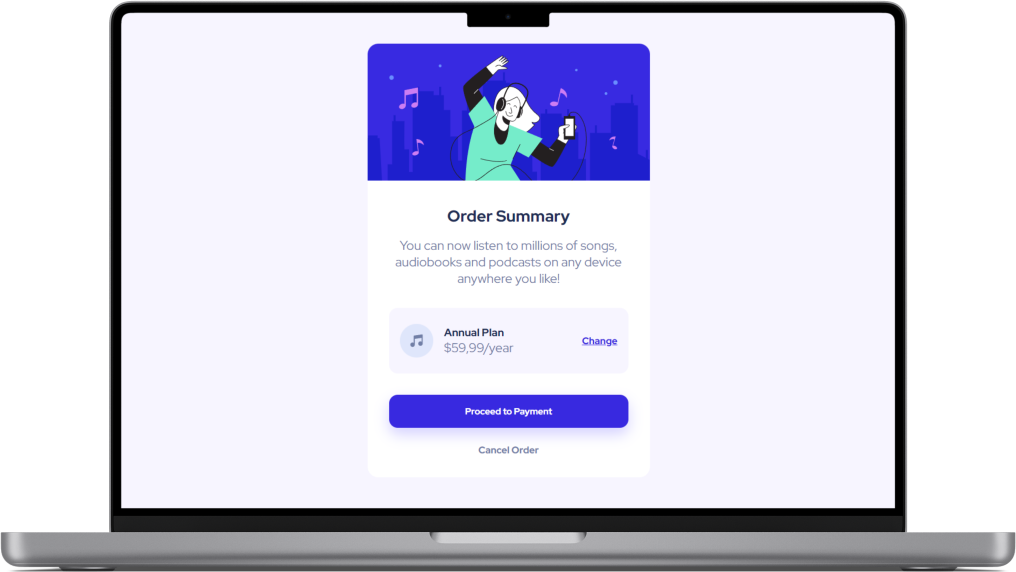
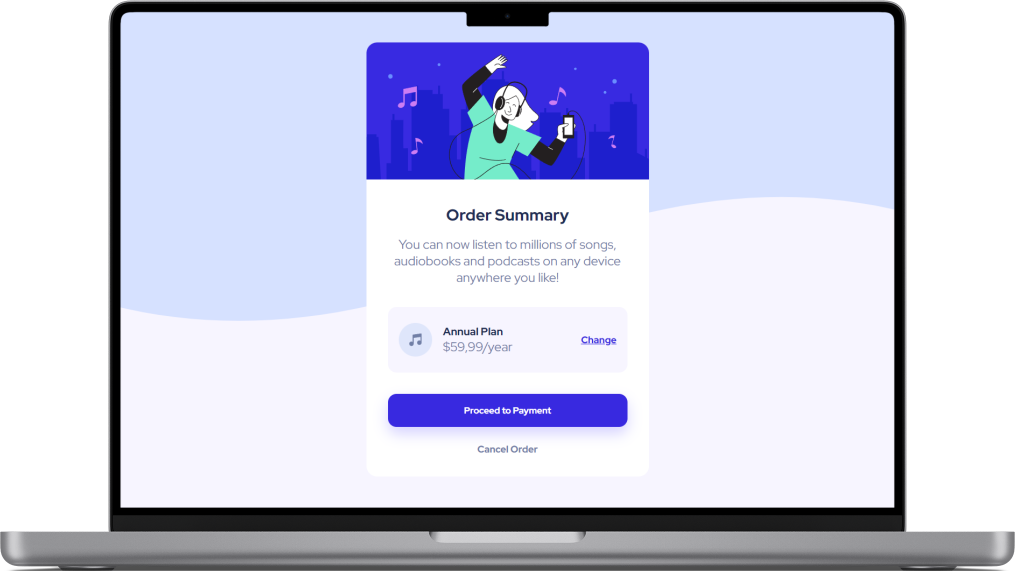
Alteração no css e modificação dos previews

diff --git a/index.html b/index.html
@@ -23,7 +23,7 @@
             <img src="css/images/icon-music.svg" alt="music icon">
             <div class="price">
               <strong>Annual Plan</strong>
-              <span>$59,99/year</span>
+              <span class="valor">$59,99/year</span>
             </div>
           </div>
           <a href="#">Change</a>

diff --git a/css/style.css b/css/style.css
@@ -66,6 +66,9 @@ main .informations .price {
    flex-direction: column;
    color: #1f2f56;
 }
+.valor {
+   font-size: 1rem;
+}
 main .informations img {
    width: 50px;
    margin-right: 1rem;
